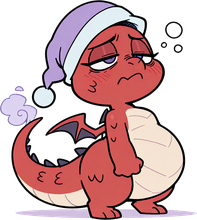
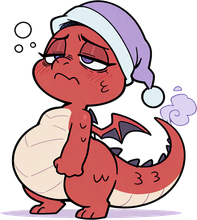
美術:世界 5–7 修正(蓋掉遠景小人與多餘月亮、火龍朝左、雨林中景改低矮蕨類、補地形機關說明)

diff --git a/docs/art/tools/process_worlds567.py b/docs/art/tools/process_worlds567.py
@@ -22,7 +22,7 @@ PICKS = {
     "w5-coffee-lava-blob": ("G11/w5/w5-coffee-lava-blob_00003_.png", (52, 56), False),
     "w5-noisy-volcano-bird": ("G11/w5/w5-noisy-volcano-bird_00003_.png", (60, 56), True),
     "w5-armadillo": ("G11/w5/w5-armadillo_00004_.png", (80, 72), True),
-    "w5-fire-dragon-boss": ("G11/w5/w5-fire-dragon-boss_00001_.png", (240, 220), True),
+    "w5-fire-dragon-boss": ("G11/w5/w5-fire-dragon-boss_00001_.png", (240, 220), False),
     "w6-tree-frog": ("G11/w6/w6-tree-frog_00004_.png", (52, 52), True),
     "w6-coffee-chameleon": ("G11/w6/w6-coffee-chameleon_00001_.png", (56, 56), True),
     "w6-alarm-parrot": ("G11/w6/w6-alarm-parrot_00002_.png", (60, 56), False),
@@ -35,7 +35,7 @@ PICKS = {
     "w7-lion-king-boss": ("G11/w7/w7-lion-king-boss_00004_.png", (240, 220), False),
     "w7-wildebeest": ("G11/w7/w7-wildebeest_00002_.png", (64, 56), False),
     "w5-armadillo-sleep": ("G12/w5s/w5-armadillo-sleep_00002_.png", (80, 72), False),
-    "w5-coffee-lava-blob-sleep": ("G12/w5s/w5-coffee-lava-blob-sleep_00002_.png", (52, 56), False),
+    "w5-coffee-lava-blob-sleep": ("G12/w5s/w5-coffee-lava-blob-sleep_00004_.png", (52, 56), False),
     "w5-fire-dragon-boss-phase2": ("G12/w5s/w5-fire-dragon-boss-phase2_00002_.png", (240, 220), False),
     "w5-fire-dragon-boss-phase3": ("G12/w5s/w5-fire-dragon-boss-phase3_00002_.png", (240, 220), False),
     "w5-fire-dragon-boss-sleep": ("G12/w5s/w5-fire-dragon-boss-sleep_00002_.png", (240, 220), False),
@@ -60,9 +60,16 @@ PICKS = {
 FAR_PICKS = {"w5-1": "00003", "w5-2": "00003", "w5-3": "00001", "w5-4": "00003",
              "w6-1": "00003", "w6-2": "00003", "w6-3": "00003", "w6-4": "00003",
              "w7-1": "00001", "w7-2": "00004", "w7-3": "00001", "w7-4": "00001"}
-FAR_PATCH = {}
+FAR_PATCH = {  # 蓋掉模型自己在遠景加的小動物、人影、多出來的月亮（座標是 1440×540 成品上的位置）
+    "w5-1": [((556, 424, 646, 496), -100)],
+    "w6-3": [((900, 448, 1000, 540), -160)],
+    "w6-4": [((770, 410, 870, 530), 160)],
+    "w7-2": [((745, 325, 835, 455), -140), ((745, 455, 835, 535), -140)],
+    "w7-3": [((850, 450, 950, 540), -160)],
+    "w7-4": [((1160, 228, 1250, 292), 95), ((830, 345, 896, 405), -120)],
+}
 # 原圖朝右的翻成朝左（睡著版、二三階段是照原圖修改的，跟著原圖一起翻）
-FLIP_BASE = ['w5-noisy-volcano-bird', 'w5-fire-dragon-boss', 'w5-armadillo', 'w6-coffee-chameleon', 'w6-pangolin', 'w6-tree-frog', 'w7-coffee-warthog']
+FLIP_BASE = ['w5-noisy-volcano-bird', 'w5-armadillo', 'w6-coffee-chameleon', 'w6-pangolin', 'w6-tree-frog', 'w7-coffee-warthog']
 for name, (src, box, flip) in PICKS.items():
     flip = flip or any(name.startswith(b) for b in FLIP_BASE)
     im = cutout(src.replace("G11/", G11 + "/").replace("G12/", G12 + "/"))

diff --git a/docs/art/tools/artlib.py b/docs/art/tools/artlib.py
@@ -221,20 +221,17 @@ def rocks_mid(color, W=1440, seed=0, n=10, base=474, smoke=None):
                 rr = 10 + k * 6; d.ellipse((x - rr, base - 90 - k * 26 - rr, x + rr, base - 90 - k * 26 + rr), fill=smoke + (150,))
     return im
 
-def jungle_mid(color, W=1440, seed=0, n=8, base=474, leaf=None):
-    """雨林：粗樹幹、上方垂下的藤蔓、地上的大葉子。"""
+def jungle_mid(color, W=1440, seed=0, n=10, base=474, leaf=None):
+    """雨林中景：低矮的蕨類和灌木叢（遠景已經有大樹，中景只點綴、不擋遊戲區）。"""
     import random
     rnd = random.Random(seed); im = Image.new("RGBA", (W, H), (0, 0, 0, 0)); d = ImageDraw.Draw(im); c = color + (255,)
     lc = (leaf or color) + (255,)
     for x in _spread(W, n, rnd):
-        w = rnd.randint(12, 22); d.polygon([(x - w, base), (x - w * 0.6, 0), (x + w * 0.6, 0), (x + w, base)], fill=c)
-        for _ in range(rnd.randint(1, 3)):  # 藤蔓
-            vx = x + rnd.randint(-70, 70); L = rnd.randint(120, 300)
-            d.line([(vx + 6 * math.sin(t / 2), L * t / 10) for t in range(11)], fill=c, width=4, joint="curve")
-        for k in range(rnd.randint(1, 2)):  # 大葉子
-            lx = x + rnd.randint(-60, 60); s = rnd.randint(22, 36)
-            d.ellipse((lx - s, base - s * 1.4, lx + s, base - 2), fill=lc)
-    d.rectangle((0, 0, W, 18), fill=c)  # 頂端的樹冠
+        for k in range(rnd.randint(5, 8)):  # 蕨類葉片：從底部往外彎
+            a0 = math.radians(rnd.uniform(200, 340)); L = rnd.randint(30, 60)
+            pts = [(x + L * t / 6 * math.cos(a0), base - L * t / 6 * abs(math.sin(a0)) + 10 * (t / 6) ** 2) for t in range(7)]
+            d.line(pts, fill=c, width=5, joint="curve")
+        r = rnd.randint(14, 22); d.ellipse((x - r * 1.4, base - r * 1.4, x + r * 1.4, base + 4), fill=lc)
     return im
 
 def acacia_mid(color, W=1440, seed=0, n=5, base=472):

diff --git a/docs/art/worlds.md b/docs/art/worlds.md
@@ -91,6 +91,7 @@
 | 中階 | 失眠犰狳 | `w5-armadillo` | 正面拿岩石盾 |
 | 關主 | 熬夜火龍 | `w5-fire-dragon-boss` | 三階段 |
 
+- 地形與機關：熔岩地面、噴發落石、岩石平台。
 - 2026-10-22 第一版素材完成，清單在 `docs/art/world5-assets.md`。
 
 ## 世界 6：熱帶雨林（美術擬定，待程式與葉宸佑確認）
@@ -103,6 +104,7 @@
 | 中階 | 失眠穿山甲 | `w6-pangolin` | 正面拿鱗片盾 |
 | 關主 | 吵鬧大猩猩 | `w6-gorilla-boss` | 三階段 |
 
+- 地形與機關：可以抓住盪過去的藤蔓、木頭平台。
 - 2026-10-22 第一版素材完成，清單在 `docs/art/world6-assets.md`。
 
 ## 世界 7：非洲大草原（美術擬定，待程式與葉宸佑確認）
@@ -115,4 +117,5 @@
 | 中階 | 失眠犀牛 | `w7-rhino` | 正面衝撞 |
 | 關主 | 失眠獅子王 | `w7-lion-king-boss` | 三階段 |
 
+- 地形與機關：獸群奔跑（角馬＋沙塵，程式重複排列）、岩石平台。
 - 2026-10-22 第一版素材完成，清單在 `docs/art/world7-assets.md`。

diff --git a/docs/art/world7-assets.md b/docs/art/world7-assets.md
@@ -37,3 +37,5 @@
 - 中景、近景、機關是程式畫的，比較簡單。
 - 關主三個階段差別主要在表情和周圍特效，程式可以加變色或抖動。
 - 飛行的小怪飛行時底部要高於 y=452，讓玩家蹲下能閃過。
+- 遠景裡模型自己加的小動物、人影（世界 7 還有多出來的月亮）已用旁邊的畫面蓋掉。
+- 犀牛的角長在頭頂往後彎，比較像山羊；白天草原的遠景有雪山和松樹，不太像非洲。

diff --git a/docs/art/world5-assets.md b/docs/art/world5-assets.md
@@ -37,3 +37,5 @@
 - 中景、近景、機關是程式畫的，比較簡單。
 - 關主三個階段差別主要在表情和周圍特效，程式可以加變色或抖動。
 - 飛行的小怪飛行時底部要高於 y=452，讓玩家蹲下能閃過。
+- 遠景裡模型自己加的小動物、人影（世界 7 還有多出來的月亮）已用旁邊的畫面蓋掉。
+- 咖啡熔岩團子、犰狳的睡著版眼睛只有半閉。

diff --git a/docs/art/world6-assets.md b/docs/art/world6-assets.md
@@ -36,3 +36,5 @@
 - 中景、近景、機關是程式畫的，比較簡單。
 - 關主三個階段差別主要在表情和周圍特效，程式可以加變色或抖動。
 - 飛行的小怪飛行時底部要高於 y=452，讓玩家蹲下能閃過。
+- 遠景裡模型自己加的小動物、人影（世界 7 還有多出來的月亮）已用旁邊的畫面蓋掉。
+- 穿山甲的睡著版眼睛只有半閉。
